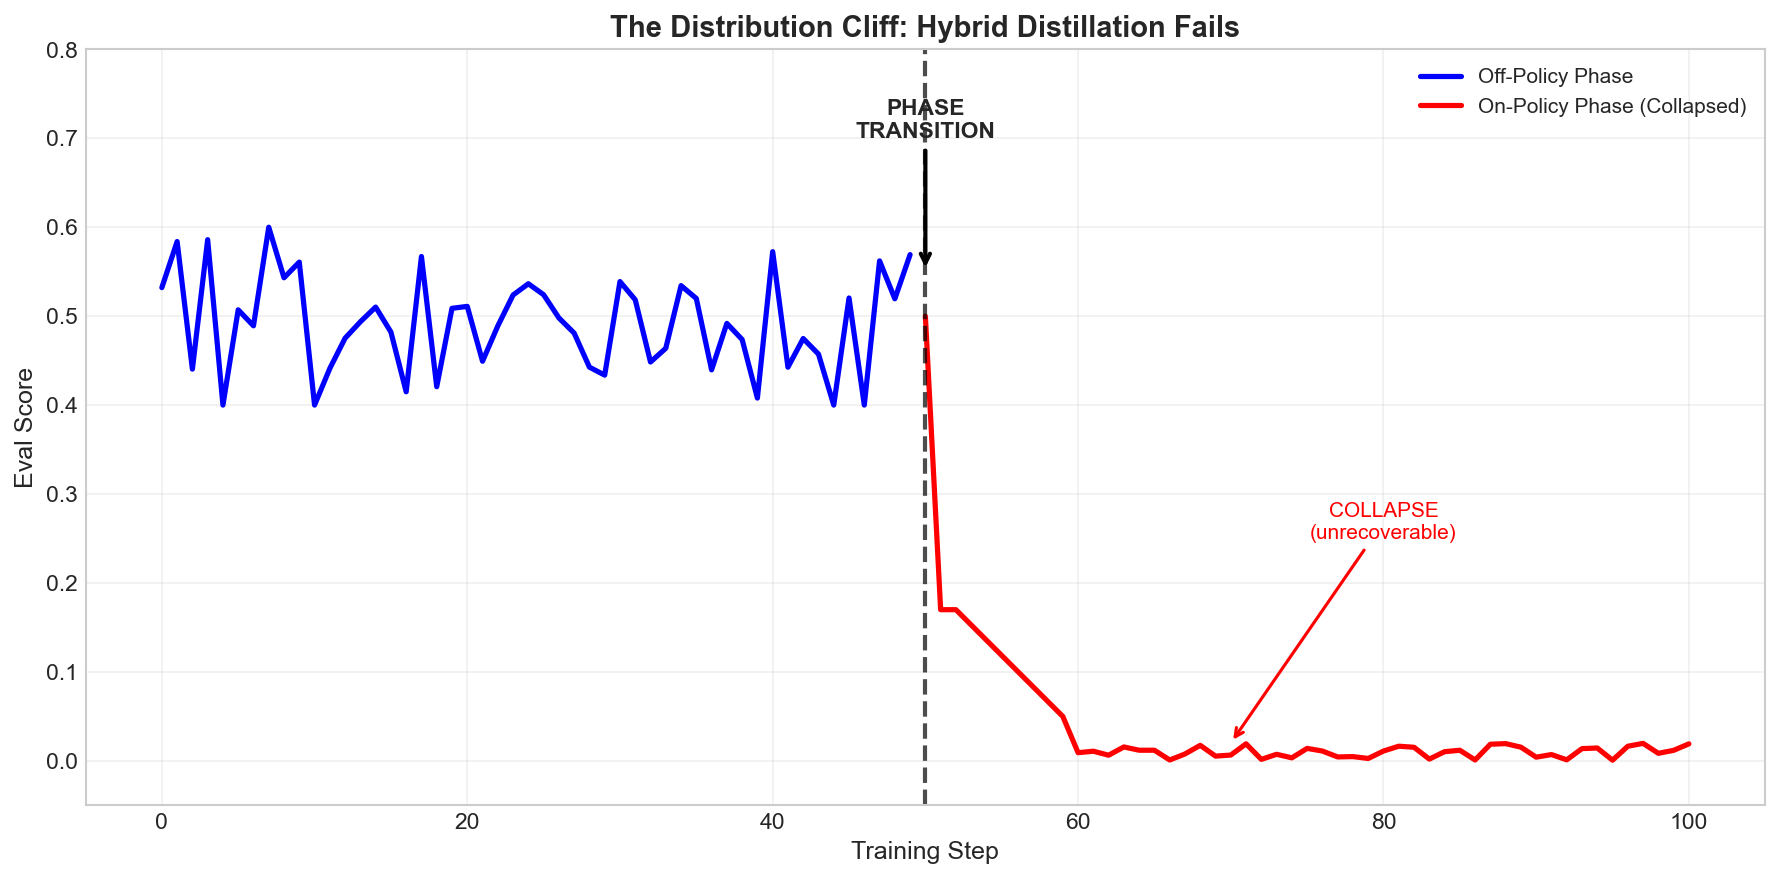
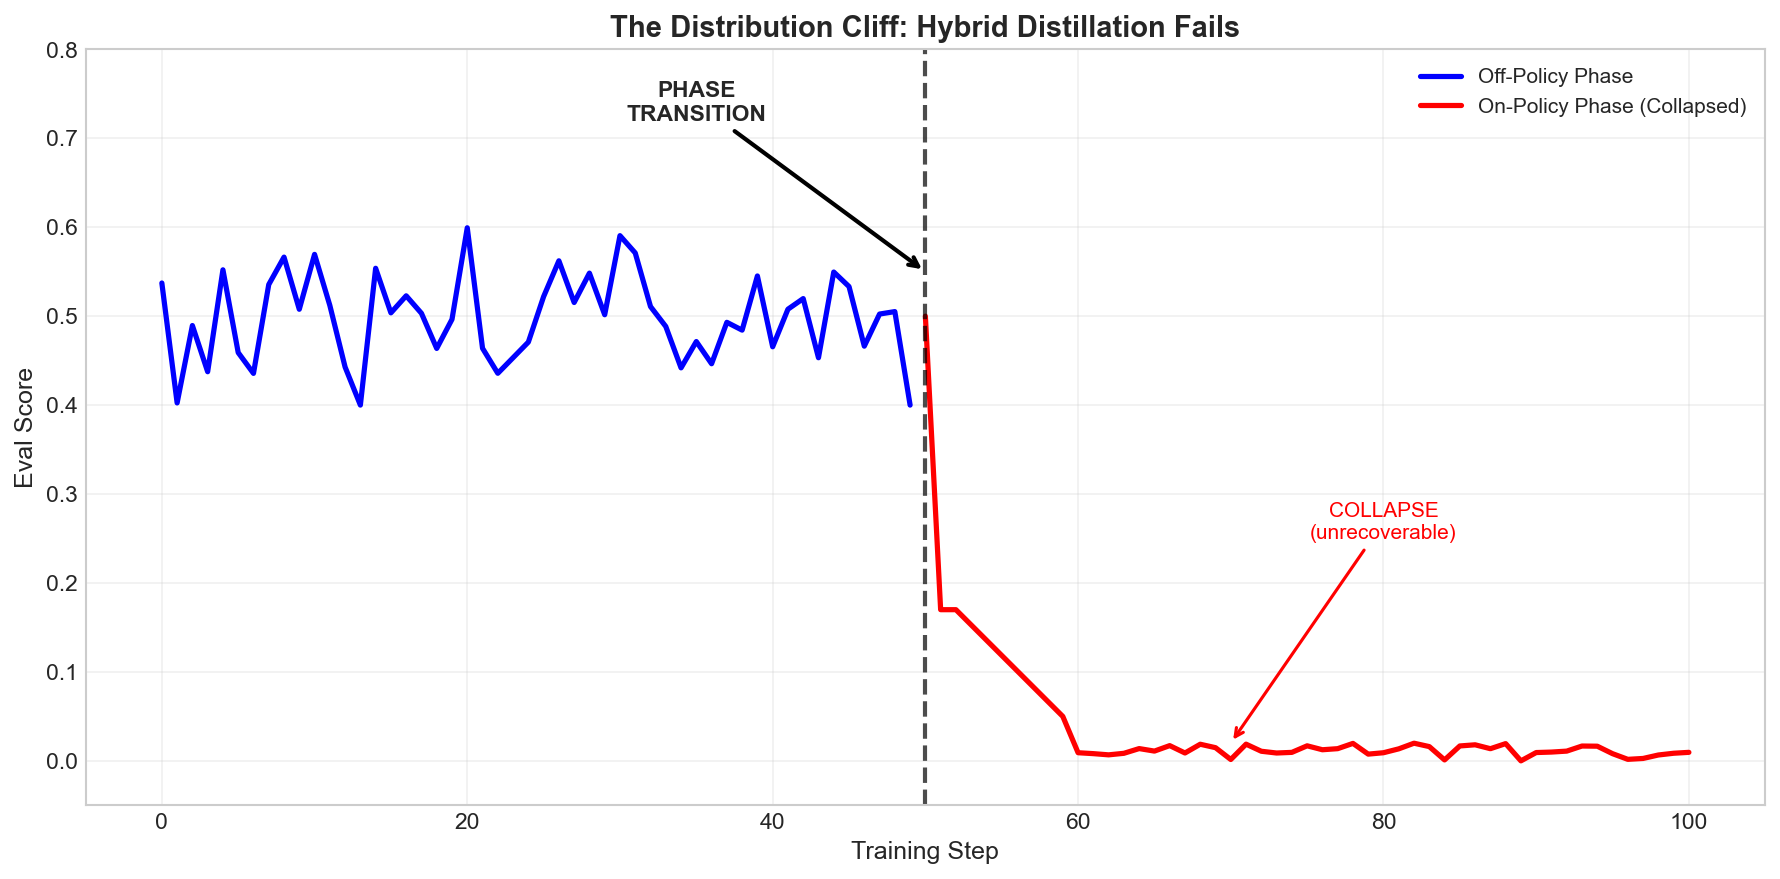
Fix visualization and soften definitive claims
- Move "PHASE TRANSITION" label to left of dashed line
- Replace "strictly better" with "significantly outperformed in our experiments"
- Add caveats section acknowledging study limitations
- Note that different configurations might yield different results

🤖 Generated with [Claude Code](https://claude.com/claude-code)

diff --git a/scripts/generate_visualizations.py b/scripts/generate_visualizations.py
@@ -687,7 +687,7 @@ def generate_context_distillation_visualizations():
 
     # Add phase transition marker
     ax.axvline(x=50, color='black', linestyle='--', linewidth=2, alpha=0.7)
-    ax.annotate('PHASE\nTRANSITION', xy=(50, 0.55), xytext=(50, 0.7),
+    ax.annotate('PHASE\nTRANSITION', xy=(50, 0.55), xytext=(35, 0.72),
                 fontsize=11, ha='center', fontweight='bold',
                 arrowprops=dict(arrowstyle='->', color='black', lw=2))
 

diff --git a/src/content/blog/context-distillation.md b/src/content/blog/context-distillation.md
@@ -283,13 +283,13 @@ The [project spec](https://github.com/thinking-machines-lab/tinker-project-ideas
 - Context distillation is useful for style/format, not reasoning ability
 
 **For size distillation (small ← large model)**:
-- On-policy is strictly better than off-policy
-- Hybrid mode catastrophically collapses
-- Teacher seeding achieves 58-71% GSM8K accuracy
+- On-policy significantly outperformed off-policy in our experiments
+- Hybrid mode collapsed in all configurations we tested
+- Teacher seeding achieved the best results (58-71% GSM8K accuracy)
 
-**The deeper insight**: The GKD paper's hybrid recommendation assumes the student can generate coherent outputs after off-policy training. With large capability gaps, this assumption fails—the student learns to mimic tokens without understanding them, producing garbage when forced to generate independently.
+**The deeper insight**: The GKD paper's hybrid recommendation assumes the student can generate coherent outputs after off-policy training. With large capability gaps, this assumption may not hold—the student learns to mimic tokens without understanding them, producing garbage when forced to generate independently.
 
-Teacher seeding provides the benefits of guided training without the corruption of off-policy objectives. For knowledge distillation with capability gaps, use it.
+**Caveats**: Our experiments used specific hyperparameters, model families, and a single benchmark (GSM8K). The collapse pattern was consistent across our tests, but different configurations (learning rates, longer warmup, different model architectures) might yield different results. Teacher seeding appears promising, but more investigation is warranted before drawing universal conclusions.
 
 ---
 
